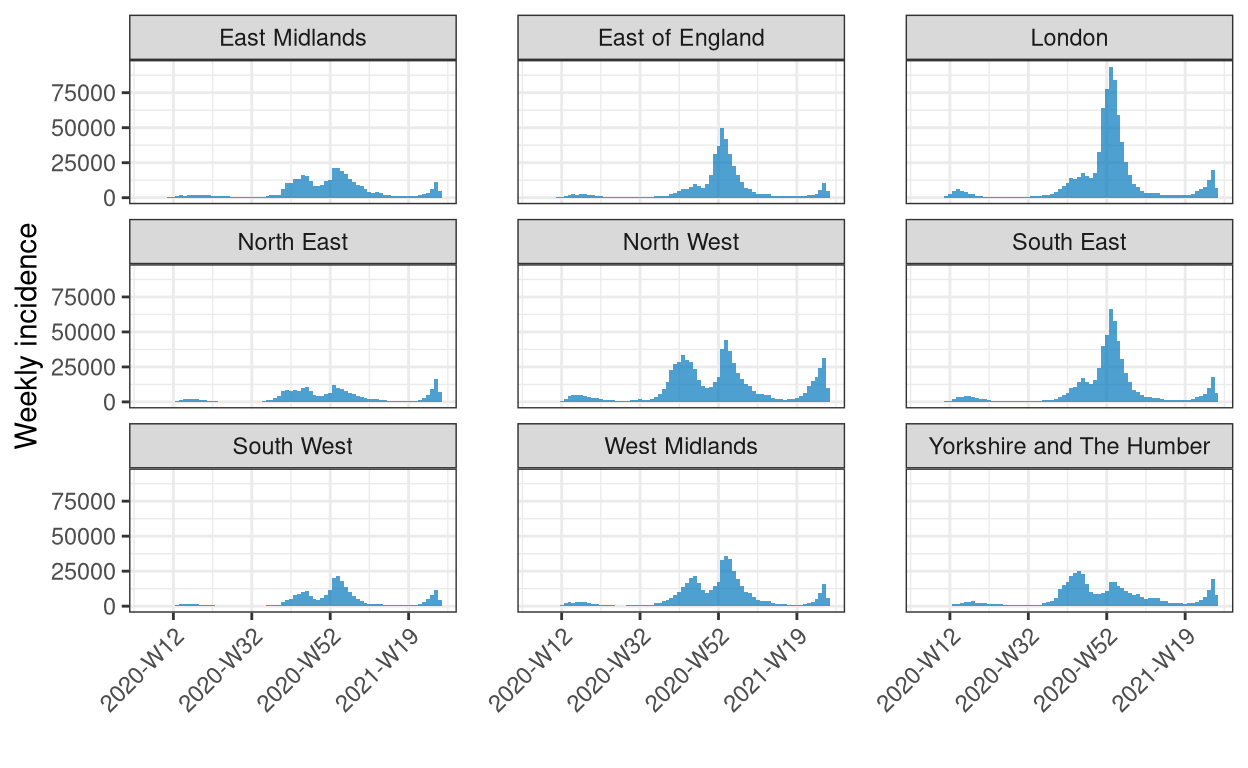
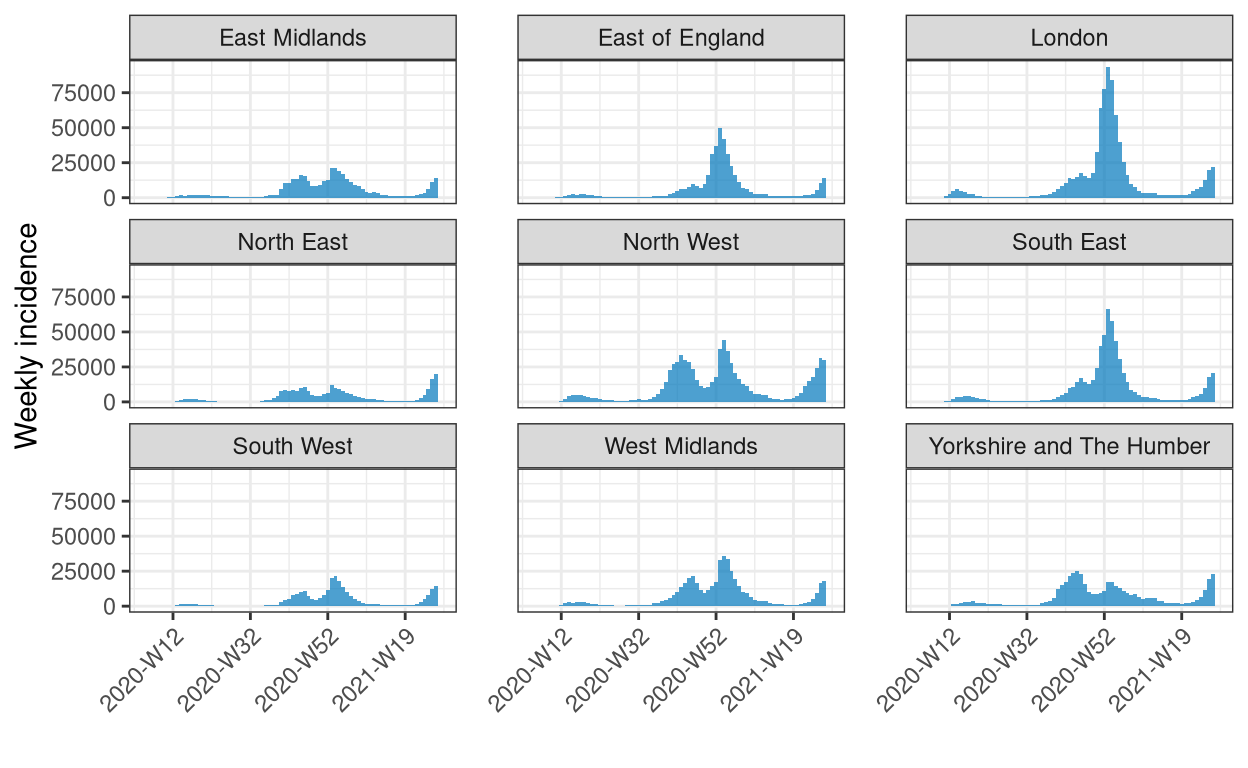
fix bullet points in incidence blog and tweak plot breaks

diff --git a/_posts/2021-07-08-introducing-incidence2/introducing-incidence2.html b/_posts/2021-07-08-introducing-incidence2/introducing-incidence2.html
@@ -92,8 +92,8 @@ code span.wa { color: #5e5e5e; font-style: italic; } /* Warning */
   <link rel="license" href="https://creativecommons.org/licenses/by/4.0/"/>
 
   <!--  https://schema.org/Article -->
-  <meta property="article:published" itemprop="datePublished" content="2021-07-08"/>
-  <meta property="article:created" itemprop="dateCreated" content="2021-07-08"/>
+  <meta property="article:published" itemprop="datePublished" content="2021-07-13"/>
+  <meta property="article:created" itemprop="dateCreated" content="2021-07-13"/>
   <meta name="article:author" content="Tim Taylor"/>
 
   <!--  https://developers.facebook.com/docs/sharing/webmasters#markup -->
@@ -119,7 +119,7 @@ code span.wa { color: #5e5e5e; font-style: italic; } /* Warning */
   <!--radix_placeholder_rmarkdown_metadata-->
 
   <script type="text/json" id="radix-rmarkdown-metadata">
-  {"type":"list","attributes":{"names":{"type":"character","attributes":{},"value":["title","description","author","date","output","draft","creative_commons","bibliography","citation"]}},"value":[{"type":"character","attributes":{},"value":["Introducing incidence2"]},{"type":"character","attributes":{},"value":["Compute, handle and visualise epicurves.\n"]},{"type":"list","attributes":{},"value":[{"type":"list","attributes":{"names":{"type":"character","attributes":{},"value":["name"]}},"value":[{"type":"character","attributes":{},"value":["Tim Taylor"]}]}]},{"type":"character","attributes":{},"value":["07-08-2021"]},{"type":"list","attributes":{"names":{"type":"character","attributes":{},"value":["distill::distill_article"]}},"value":[{"type":"list","attributes":{"names":{"type":"character","attributes":{},"value":["self_contained"]}},"value":[{"type":"logical","attributes":{},"value":[false]}]}]},{"type":"logical","attributes":{},"value":[true]},{"type":"character","attributes":{},"value":["CC BY"]},{"type":"character","attributes":{},"value":["ref.bib"]},{"type":"logical","attributes":{},"value":[true]}]}
+  {"type":"list","attributes":{"names":{"type":"character","attributes":{},"value":["title","description","author","date","output","draft","creative_commons","bibliography","citation"]}},"value":[{"type":"character","attributes":{},"value":["Introducing incidence2"]},{"type":"character","attributes":{},"value":["Compute, handle and visualise epicurves.\n"]},{"type":"list","attributes":{},"value":[{"type":"list","attributes":{"names":{"type":"character","attributes":{},"value":["name"]}},"value":[{"type":"character","attributes":{},"value":["Tim Taylor"]}]}]},{"type":"character","attributes":{},"value":["07-13-2021"]},{"type":"list","attributes":{"names":{"type":"character","attributes":{},"value":["distill::distill_article"]}},"value":[{"type":"list","attributes":{"names":{"type":"character","attributes":{},"value":["self_contained"]}},"value":[{"type":"logical","attributes":{},"value":[false]}]}]},{"type":"logical","attributes":{},"value":[true]},{"type":"character","attributes":{},"value":["CC BY"]},{"type":"character","attributes":{},"value":["ref.bib"]},{"type":"logical","attributes":{},"value":[true]}]}
   </script>
   <!--/radix_placeholder_rmarkdown_metadata-->
   
@@ -1463,7 +1463,7 @@ code span.wa { color: #5e5e5e; font-style: italic; } /* Warning */
 <!--radix_placeholder_front_matter-->
 
 <script id="distill-front-matter" type="text/json">
-{"title":"Introducing incidence2","description":"Compute, handle and visualise epicurves.","authors":[{"author":"Tim Taylor","authorURL":"#","affiliation":"&nbsp;","affiliationURL":"#","orcidID":""}],"publishedDate":"2021-07-08T00:00:00.000+01:00","citationText":"Taylor, 2021"}
+{"title":"Introducing incidence2","description":"Compute, handle and visualise epicurves.","authors":[{"author":"Tim Taylor","authorURL":"#","affiliation":"&nbsp;","affiliationURL":"#","orcidID":""}],"publishedDate":"2021-07-13T00:00:00.000+01:00","citationText":"Taylor, 2021"}
 </script>
 
 <!--/radix_placeholder_front_matter-->
@@ -1482,7 +1482,7 @@ code span.wa { color: #5e5e5e; font-style: italic; } /* Warning */
 <div class="d-byline">
   Tim Taylor  
   
-<br/>07-08-2021
+<br/>07-13-2021
 </div>
 
 <div class="d-article">
@@ -1491,22 +1491,22 @@ code span.wa { color: #5e5e5e; font-style: italic; } /* Warning */
 <p>During a disease outbreak it is important to collect some basic information on cases in a line list; a data structure where each entry describes a unique individual in an epidemiological context. Line lists are typically in a tabular format where each row is an individual with a unique ID, meta-data describing the individual which are fixed in time (e.g., age, sex, occupation, disease outcome) and time-stamped measurements (e.g., date of onset, date of admission, date of disease outcome).</p>
 <p>To better understand an outbreak, line lists are often aggregated to produce epidemic curves (epicurves); graphs representing the number of new cases over a given time interval (e.g. days, weeks, months). The process to convert a line list to an epicurve typically involves four stages:</p>
 <ol type="1">
-<li>Data cleaning;</li>
-<li>time standardisation;</li>
-<li>aggregation; and</li>
-<li>visualisation.</li>
+<li>Data cleaning</li>
+<li>Time standardisation</li>
+<li>Aggregation</li>
+<li>Visualisation</li>
 </ol>
 <p>To assist with the computing and visualisation of epicurves (stages 2 to 4), the <strong>incidence</strong> <span class="citation" data-cites="Kamvar2019">(Kamvar et al. <a href="#ref-Kamvar2019" role="doc-biblioref">2019</a>)</span> package was created. Here the term <em>incidence</em> was used to refer to the underlying, aggregated data, not the <em>rate of incidence</em>. Whilst this original implementation worked well it did have some limitations:</p>
 <ul>
 <li>Users were unable to group by more than one variable at a time.</li>
-<li>Users were also unable to convert pre aggregated data in to the packages’ incidence class.</li>
+<li>Users were also unable to convert pre aggregated data in to the packages’ incidence class</li>
 <li>Date grouping was only possible using the functions provided within the package.</li>
 </ul>
 <p><strong><em>incidence2</em></strong> is a re-imagining of the original package, built to address these limitations.</p>
 <h2 id="implementation">Implementation</h2>
 <p>With <strong><em>incidence2</em></strong>, incidence objects are constructed as a subclass of <a href="https://tibble.tidyverse.org/">tibble</a> <span class="citation" data-cites="Rtibble">(Müller and Wickham <a href="#ref-Rtibble" role="doc-biblioref">2021</a>)</span>, where the following <em>class invariants</em><a href="#fn1" class="footnote-ref" id="fnref1" role="doc-noteref"><sup>1</sup></a> hold true:</p>
 <ul>
-<li>A single column representing the <em>time index</em> of the latter counts;</li>
+<li>there is a single column representing the <em>time index</em> of the latter counts;</li>
 <li>one or more columns representing <em>counts</em> of a time-stamped measurement;</li>
 <li>zero or more columns representing <em>groups</em>;</li>
 <li>zero or more columns representing other <em>associated measurements</em>; and</li>
@@ -1591,12 +1591,12 @@ interval: 1 (Sunday) week
     na_as_group <span class='op'>=</span> <span class='cn'>FALSE</span>
   <span class='op'>)</span> |&gt; 
   <span class='fu'><a href='https://rdrr.io/r/base/print.html'>print</a></span><span class='op'>(</span><span class='op'>)</span> |&gt; 
-  <span class='fu'><a href='https://rdrr.io/pkg/incidence2/man/plot.incidence2.html'>facet_plot</a></span><span class='op'>(</span>angle <span class='op'>=</span> <span class='fl'>45</span><span class='op'>)</span>
+  <span class='fu'><a href='https://rdrr.io/pkg/incidence2/man/plot.incidence2.html'>facet_plot</a></span><span class='op'>(</span>angle <span class='op'>=</span> <span class='fl'>45</span>, n.breaks <span class='op'>=</span> <span class='fl'>6</span><span class='op'>)</span>
 </code></pre>
 </div>
-<pre><code>An incidence object: 684 x 3
-date range: [2020-W05] to [2021-W27]
-cases_new: 4322630
+<pre><code>An incidence object: 693 x 3
+date range: [2020-W05] to [2021-W28]
+cases_new: 4440175
 interval: 1 (Monday) week 
 
    date_index region                   cases_new
@@ -1611,7 +1611,7 @@ interval: 1 (Monday) week
  8   2020-W05 West Midlands                    0
  9   2020-W05 Yorkshire and The Humber         1
 10   2020-W06 East Midlands                    0
-# … with 674 more rows</code></pre>
+# … with 683 more rows</code></pre>
 <p><img src="introducing-incidence2_files/figure-html5/example2-1.png" width="624" /></p>
 </div>
 <h2 id="final-thoughts">Final thoughts</h2>
